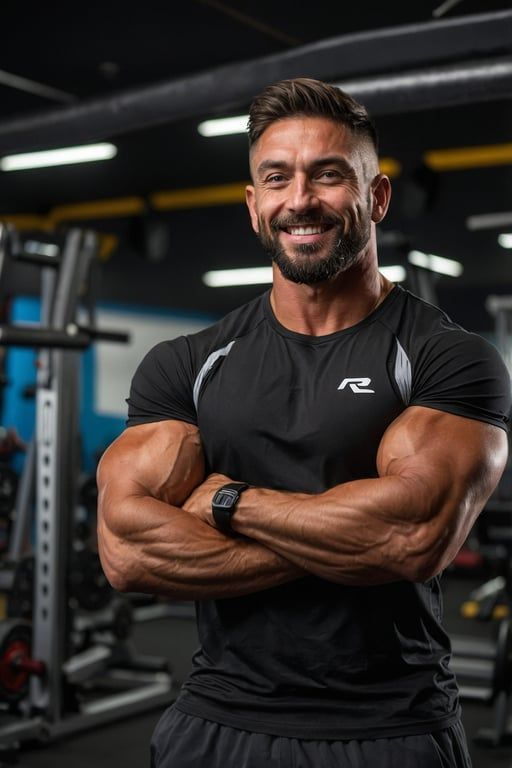
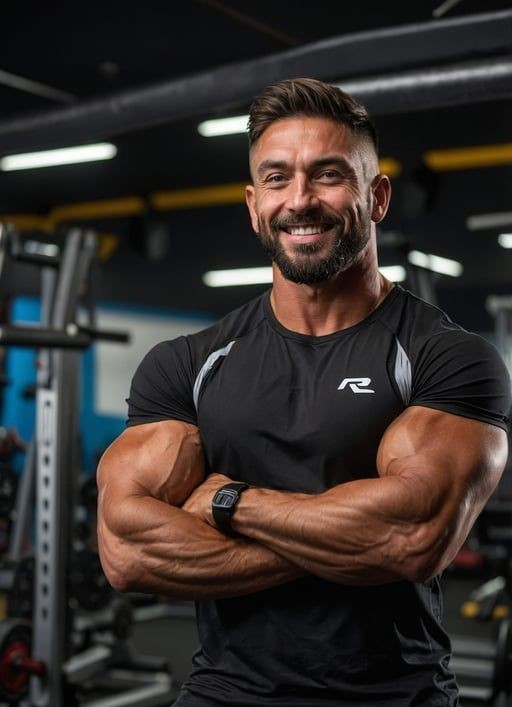
Trainers3

diff --git a/classes-trainers/index.html b/classes-trainers/index.html
@@ -248,7 +248,7 @@
   width: 100%;
   height: 100%;
   object-fit: cover;
-  style="object-position: 50% 5%"
+  style="object-position: 50% 10%"
   display: block;
   transition: transform 0.4s ease;
 }
